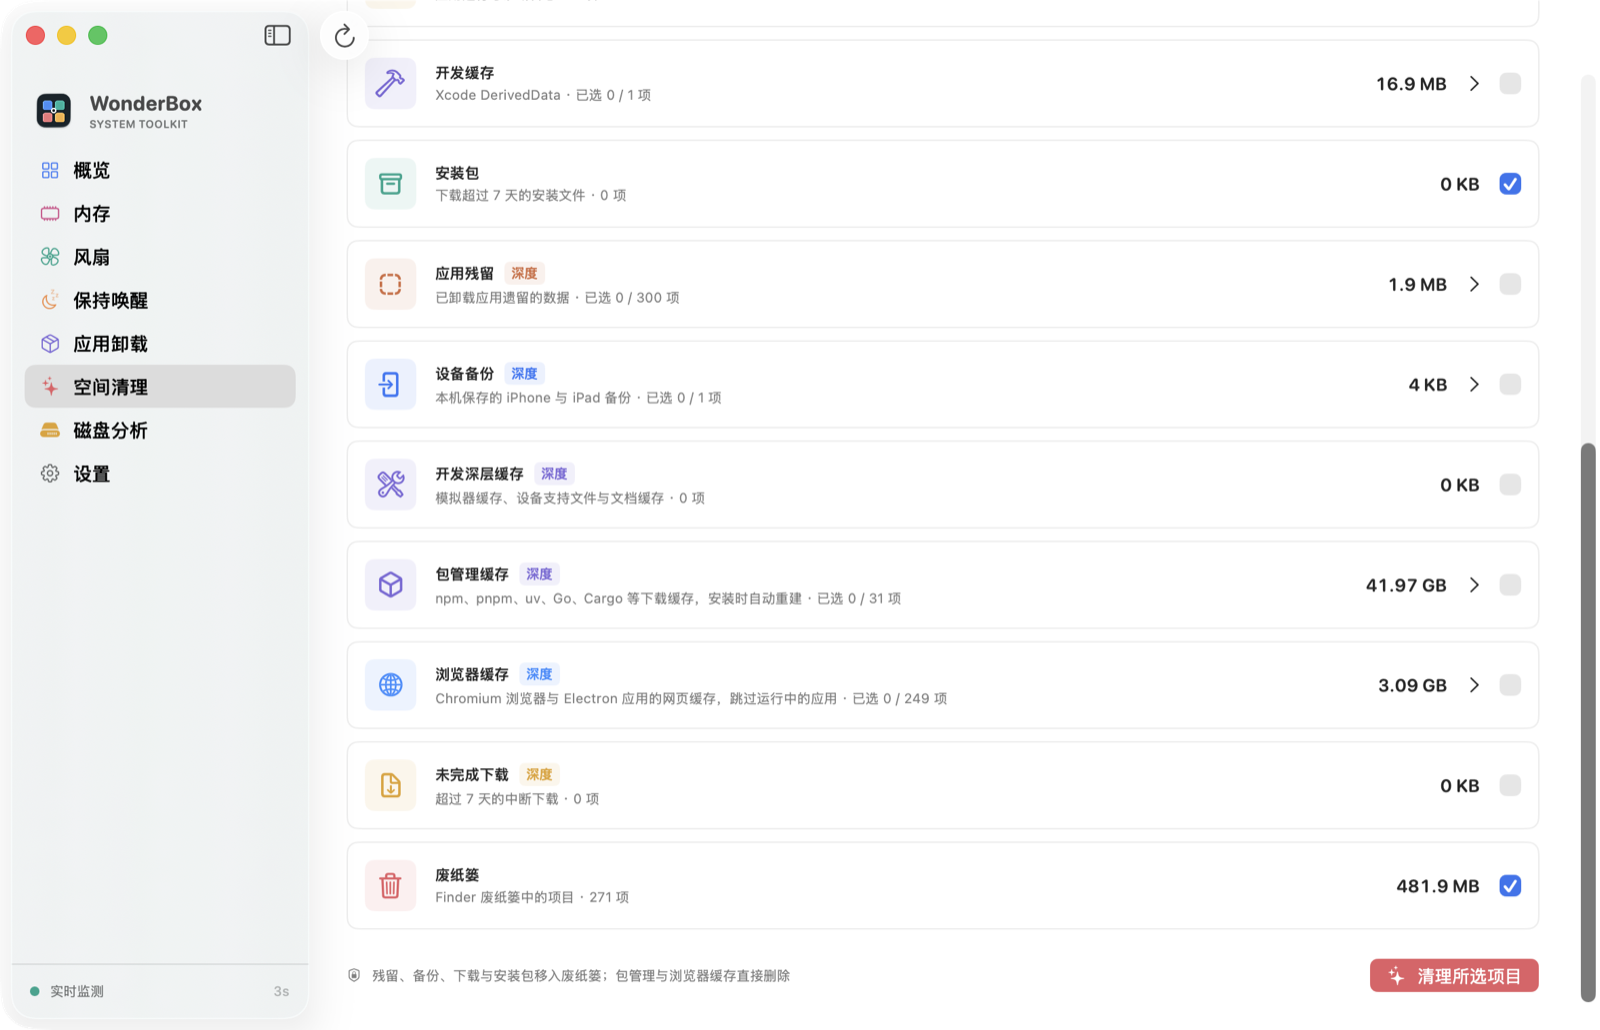
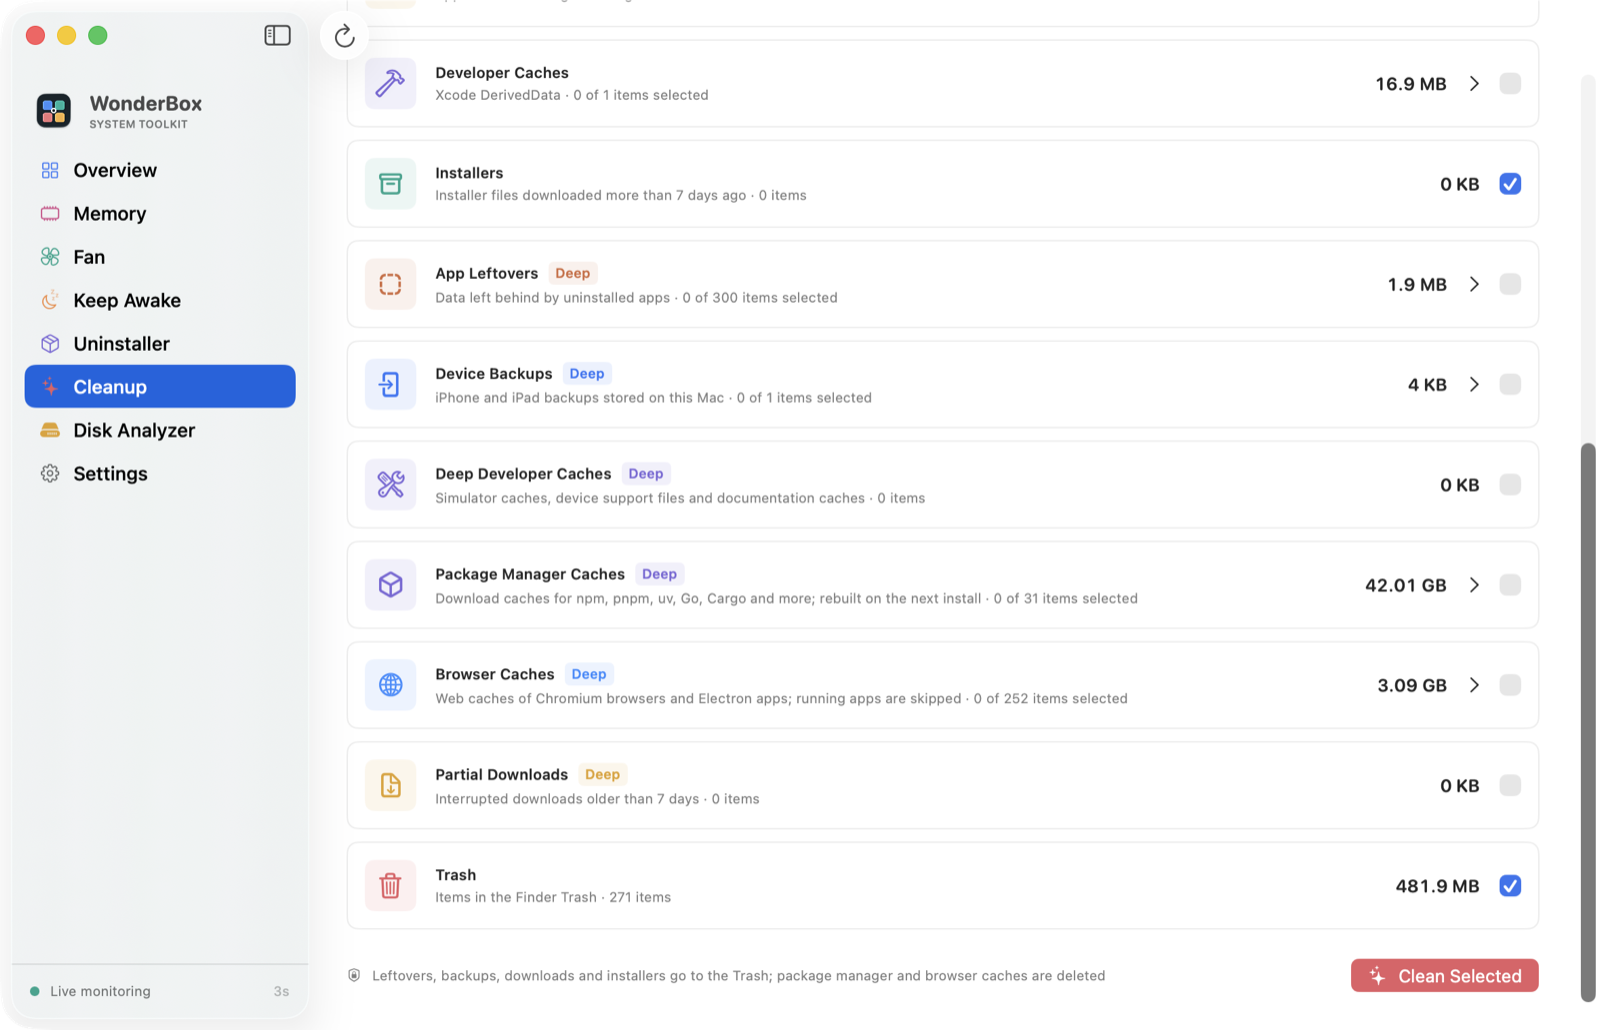
English screenshots for README, universal release packaging
The English README now shows the English UI; the Chinese set moves to
docs/screenshots/zh/. package_app.sh gains UNIVERSAL=1 for a fat
arm64 + x86_64 binary, and both READMEs document the download path and
the Gatekeeper step for the ad-hoc-signed release build.

diff --git a/README.zh-CN.md b/README.zh-CN.md
@@ -21,7 +21,7 @@
   <a href="README.md">English</a> · 简体中文
 </p>
 
-![WonderBox 概览页，显示 CPU、内存、磁盘、网络、电池与运行时间](docs/screenshots/overview.png)
+![WonderBox 概览页，显示 CPU、内存、磁盘、网络、电池与运行时间](docs/screenshots/zh/overview.png)
 
 > 所有扫描与分析都在本机完成，不上传任何数据。
 
@@ -39,7 +39,7 @@
 
 ### 内存
 
-![内存页：活动监视器同款分类、内存压力等级、按 App 的物理占用排行](docs/screenshots/memory.png)
+![内存页：活动监视器同款分类、内存压力等级、按 App 的物理占用排行](docs/screenshots/zh/memory.png)
 
 - 与活动监视器一致的分类——App 内存、联动内存、已压缩、缓存文件、可用——外加交换空间用量与内核内存压力等级
 - 按 App 汇总的物理占用排行，标注每个 App 已压缩或交换的份额，支持退出与强制退出
@@ -48,7 +48,7 @@
 
 ### 空间清理
 
-![深度清理，显示包管理缓存与浏览器缓存](docs/screenshots/cleaner-deep.png)
+![深度清理，显示包管理缓存与浏览器缓存](docs/screenshots/zh/cleaner-deep.png)
 
 **标准扫描** — 用户缓存（含沙盒 App 容器）、日志、Xcode DerivedData、超过 7 天的安装包、废纸篓。
 
@@ -64,17 +64,17 @@
 
 每个类别都能展开到具体项目，保留这个工具的缓存、删掉那个工具的：
 
-![包管理缓存类别内的逐项选择](docs/screenshots/cleaner-detail.png)
+![包管理缓存类别内的逐项选择](docs/screenshots/zh/cleaner-detail.png)
 
 ### 应用卸载
 
-![应用卸载与关联文件](docs/screenshots/applications.png)
+![应用卸载与关联文件](docs/screenshots/zh/applications.png)
 
 盘点 `/Applications` 与 `~/Applications`，从 Spotlight 读取体积、安装日期与最近使用时间；大型/久未使用筛选；逐 App 列出关联的缓存、偏好设置、容器与保存状态；全部移入废纸篓，随时可恢复。
 
 ### 磁盘分析
 
-![磁盘分析，按大小列出主目录下的子项](docs/screenshots/storage.png)
+![磁盘分析，按大小列出主目录下的子项](docs/screenshots/zh/storage.png)
 
 逐层深入任意文件夹，体积并行计算；按大小/名称/日期排序，在 Finder 中显示或将所选项目移入废纸篓。云同步目录不参与体积统计，扫描绝不会触发下载。
 
@@ -82,23 +82,33 @@
 
 <table>
   <tr>
-    <td width="50%"><img src="docs/screenshots/fan.png" alt="风扇页：实时转速仪表与控制模式"></td>
-    <td width="50%"><img src="docs/screenshots/awake.png" alt="保持唤醒页：时长与显示器选项"></td>
+    <td width="50%"><img src="docs/screenshots/zh/fan.png" alt="风扇页：实时转速仪表与控制模式"></td>
+    <td width="50%"><img src="docs/screenshots/zh/awake.png" alt="保持唤醒页：时长与显示器选项"></td>
   </tr>
 </table>
 
-![菜单栏面板：CPU、内存、磁盘、风扇转速、保持唤醒与快捷操作](docs/screenshots/menubar.png)
+![菜单栏面板：CPU、内存、磁盘、风扇转速、保持唤醒与快捷操作](docs/screenshots/zh/menubar.png)
 
 - 从 AppleSMC 读取实时风扇转速；在开放了风扇写入的机型上提供静音/均衡/强劲/自定模式（含 Apple Silicon 的 `Ftst` 解锁），随时可恢复自动
 - 保持唤醒支持 30 分钟 / 1 小时 / 2 小时 / 持续，可选同时保持显示器点亮，基于公开的 IOKit 断言接口
 - 菜单栏面板：CPU、内存、磁盘、风扇转速、唤醒开关、内存优化与一键清理，不用打开主窗口
 - 跟随系统 / 浅色 / 深色外观，四种强调色，登录时启动
 
-![设置页：外观、菜单栏、登录启动与权限状态](docs/screenshots/settings.png)
+![设置页：外观、语言、菜单栏、登录启动与权限状态](docs/screenshots/zh/settings.png)
 
 ## 安装
 
-运行要求：macOS 14 或更新。编译要求：Xcode 16 或更新。
+运行要求：macOS 14 或更新，Apple Silicon 与 Intel 均可。
+
+**直接下载：**到 [最新 Release](https://github.com/jasonwong1991/WonderBox/releases/latest) 下载 `WonderBox-x.y.z.zip`，解压后把 `WonderBox.app` 拖进「应用程序」。
+
+发行版为 ad hoc 签名、未经 Apple 公证，首次打开会被 Gatekeeper 拦截。可以右键 App → 打开，然后在「系统设置 › 隐私与安全性」中点「仍要打开」；或者一次性清除隔离标记：
+
+```bash
+xattr -dr com.apple.quarantine /Applications/WonderBox.app
+```
+
+**从源码编译**（需要 Xcode 16 或更新）：
 
 ```bash
 git clone https://github.com/jasonwong1991/WonderBox.git
@@ -109,7 +119,7 @@ swift test
 open build/WonderBox.app
 ```
 
-Swift Package 会构建 `WonderBox` 主程序与两个 helper。`package_app.sh` 生成本地签名的 `build/WonderBox.app`，内含生成的图标与打包好的 helper。
+Swift Package 会构建 `WonderBox` 主程序与两个 helper。`package_app.sh` 生成本地签名的 `build/WonderBox.app`，内含生成的图标、编译好的字符串目录与打包好的 helper；`UNIVERSAL=1 ./scripts/package_app.sh` 生成 Release 使用的 Apple Silicon + Intel 通用二进制。
 
 ## 多语言
 

diff --git a/README.md b/README.md
@@ -94,11 +94,21 @@ Drill into any folder level by level with sizes computed in parallel, sort by si
 - Menu bar dashboard: CPU, memory, disk, fan RPM, keep-awake toggle, memory optimization and one-click cleanup without opening the window
 - System / light / dark appearance, four accent colours, launch at login
 
-![Settings page with appearance, menu bar, launch at login and permission status](docs/screenshots/settings.png)
+![Settings page with appearance, language, menu bar, launch at login and permission status](docs/screenshots/settings.png)
 
 ## Install
 
-Requirements: macOS 14 or newer. To build: Xcode 16 or newer.
+Requirements: macOS 14 or newer, Apple Silicon or Intel.
+
+**Download:** grab `WonderBox-x.y.z.zip` from the [latest release](https://github.com/jasonwong1991/WonderBox/releases/latest), unzip, and drag `WonderBox.app` to Applications.
+
+The release build is signed ad hoc, not notarized, so the first launch is blocked by Gatekeeper. Either right-click the app → Open, then confirm in System Settings › Privacy & Security › "Open Anyway", or clear the quarantine flag once:
+
+```bash
+xattr -dr com.apple.quarantine /Applications/WonderBox.app
+```
+
+**Build from source** (Xcode 16 or newer):
 
 ```bash
 git clone https://github.com/jasonwong1991/WonderBox.git
@@ -109,7 +119,7 @@ swift test
 open build/WonderBox.app
 ```
 
-The package builds `WonderBox` plus two helpers. `package_app.sh` produces a locally signed `build/WonderBox.app` with the generated icon and bundled helpers.
+The package builds `WonderBox` plus two helpers. `package_app.sh` produces a locally signed `build/WonderBox.app` with the generated icon, compiled string catalogs and bundled helpers; `UNIVERSAL=1 ./scripts/package_app.sh` builds the Apple Silicon + Intel binary used for releases.
 
 ## Languages
 
